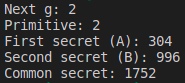
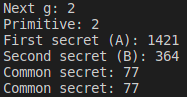
Fixed lab4, started lab5

diff --git a/lab4/prog.cpp b/lab4/prog.cpp
@@ -33,22 +33,18 @@ string getNumberBits(int number)
 
 const int getModulo(int g, int power, int P)
 {
-  string powerBits = getNumberBits(power);
-  string powerBitsRev = reverseBits(powerBits);
-  unsigned int modulo = (g * g) % P;
-  for (int i = powerBitsRev.length() - 1; i >= 0; i--)
+  int modulo = 1;
+  while (power)
   {
-    if (powerBitsRev.at(i) == '1')
+    if (power & 1)
     {
-      modulo *= g;
-    }
-    if (i - 1 != -1)
-    {
-      modulo = (modulo * modulo) % P;
+      modulo = (int)(modulo * 1ll * g % P);
+      power--;
     }
     else
     {
-      modulo %= P;
+      g = (int)(g * 1ll * g % P);
+      power >>= 1;
     }
   }
   return modulo;
@@ -120,7 +116,8 @@ int main(int argc, char **argv)
   cout << "Second secret (B): " << B << endl;
   const unsigned int Ab = getModulo(A, b, P);
   const unsigned int Ba = getModulo(B, a, P);
-  cout << "Common secret: " << Ab << endl;
+  cout << "Common secret (Ab): " << Ab << endl;
+  cout << "Common secret (Ba): " << Ba << endl;
 
   return 0;
 }

diff --git a/lab5/prog.cpp b/lab5/prog.cpp
@@ -1,0 +1,49 @@
+#include <iostream>
+#include <string>
+#include <bits/stdc++.h>
+#include <cmath>
+
+using namespace std;
+
+const int getModulo(int g, int power, int P)
+{
+  int modulo = 1;
+  while (power)
+  {
+    if (power & 1)
+    {
+      modulo = (int)(modulo * 1ll * g % P);
+      power--;
+    }
+    else
+    {
+      g = (int)(g * 1ll * g % P);
+      power >>= 1;
+    }
+  }
+  return modulo;
+}
+
+string get1024BitsStringNumber()
+{
+  string number = "1";
+  const int charBytesLength = sizeof(char) * 8;
+  const int numbersCount = 1024 / charBytesLength;
+  for (int i = 1; i < numbersCount; i++)
+  {
+    number += to_string(rand() % 10);
+  }
+  cout << number << endl;
+  return number;
+}
+
+int main(int argc, char **argv)
+{
+  setlocale(LC_ALL, "");
+  srand(time(NULL));
+
+  // - 1
+  get1024BitsStringNumber();
+
+  return 0;
+}
